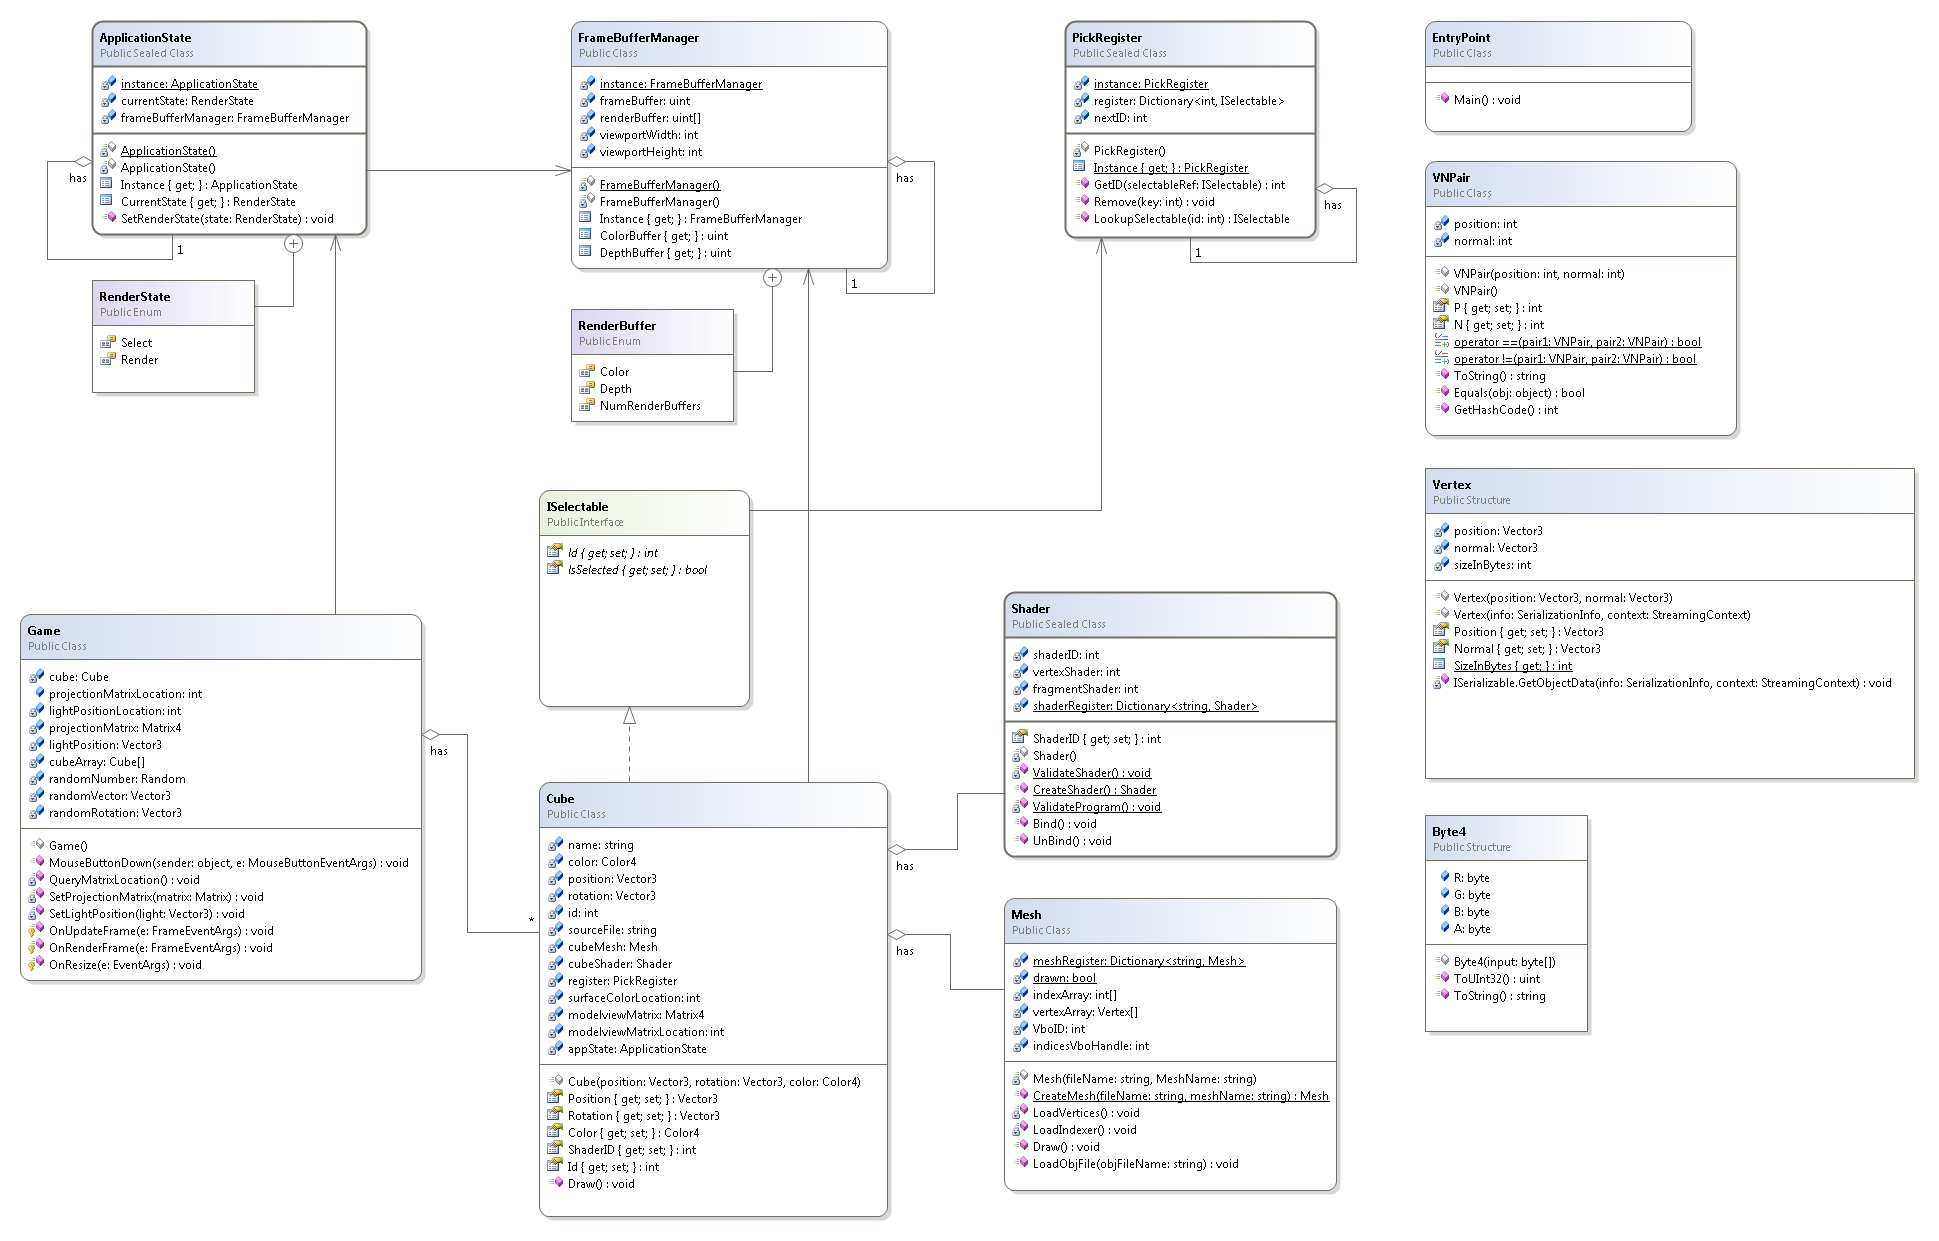
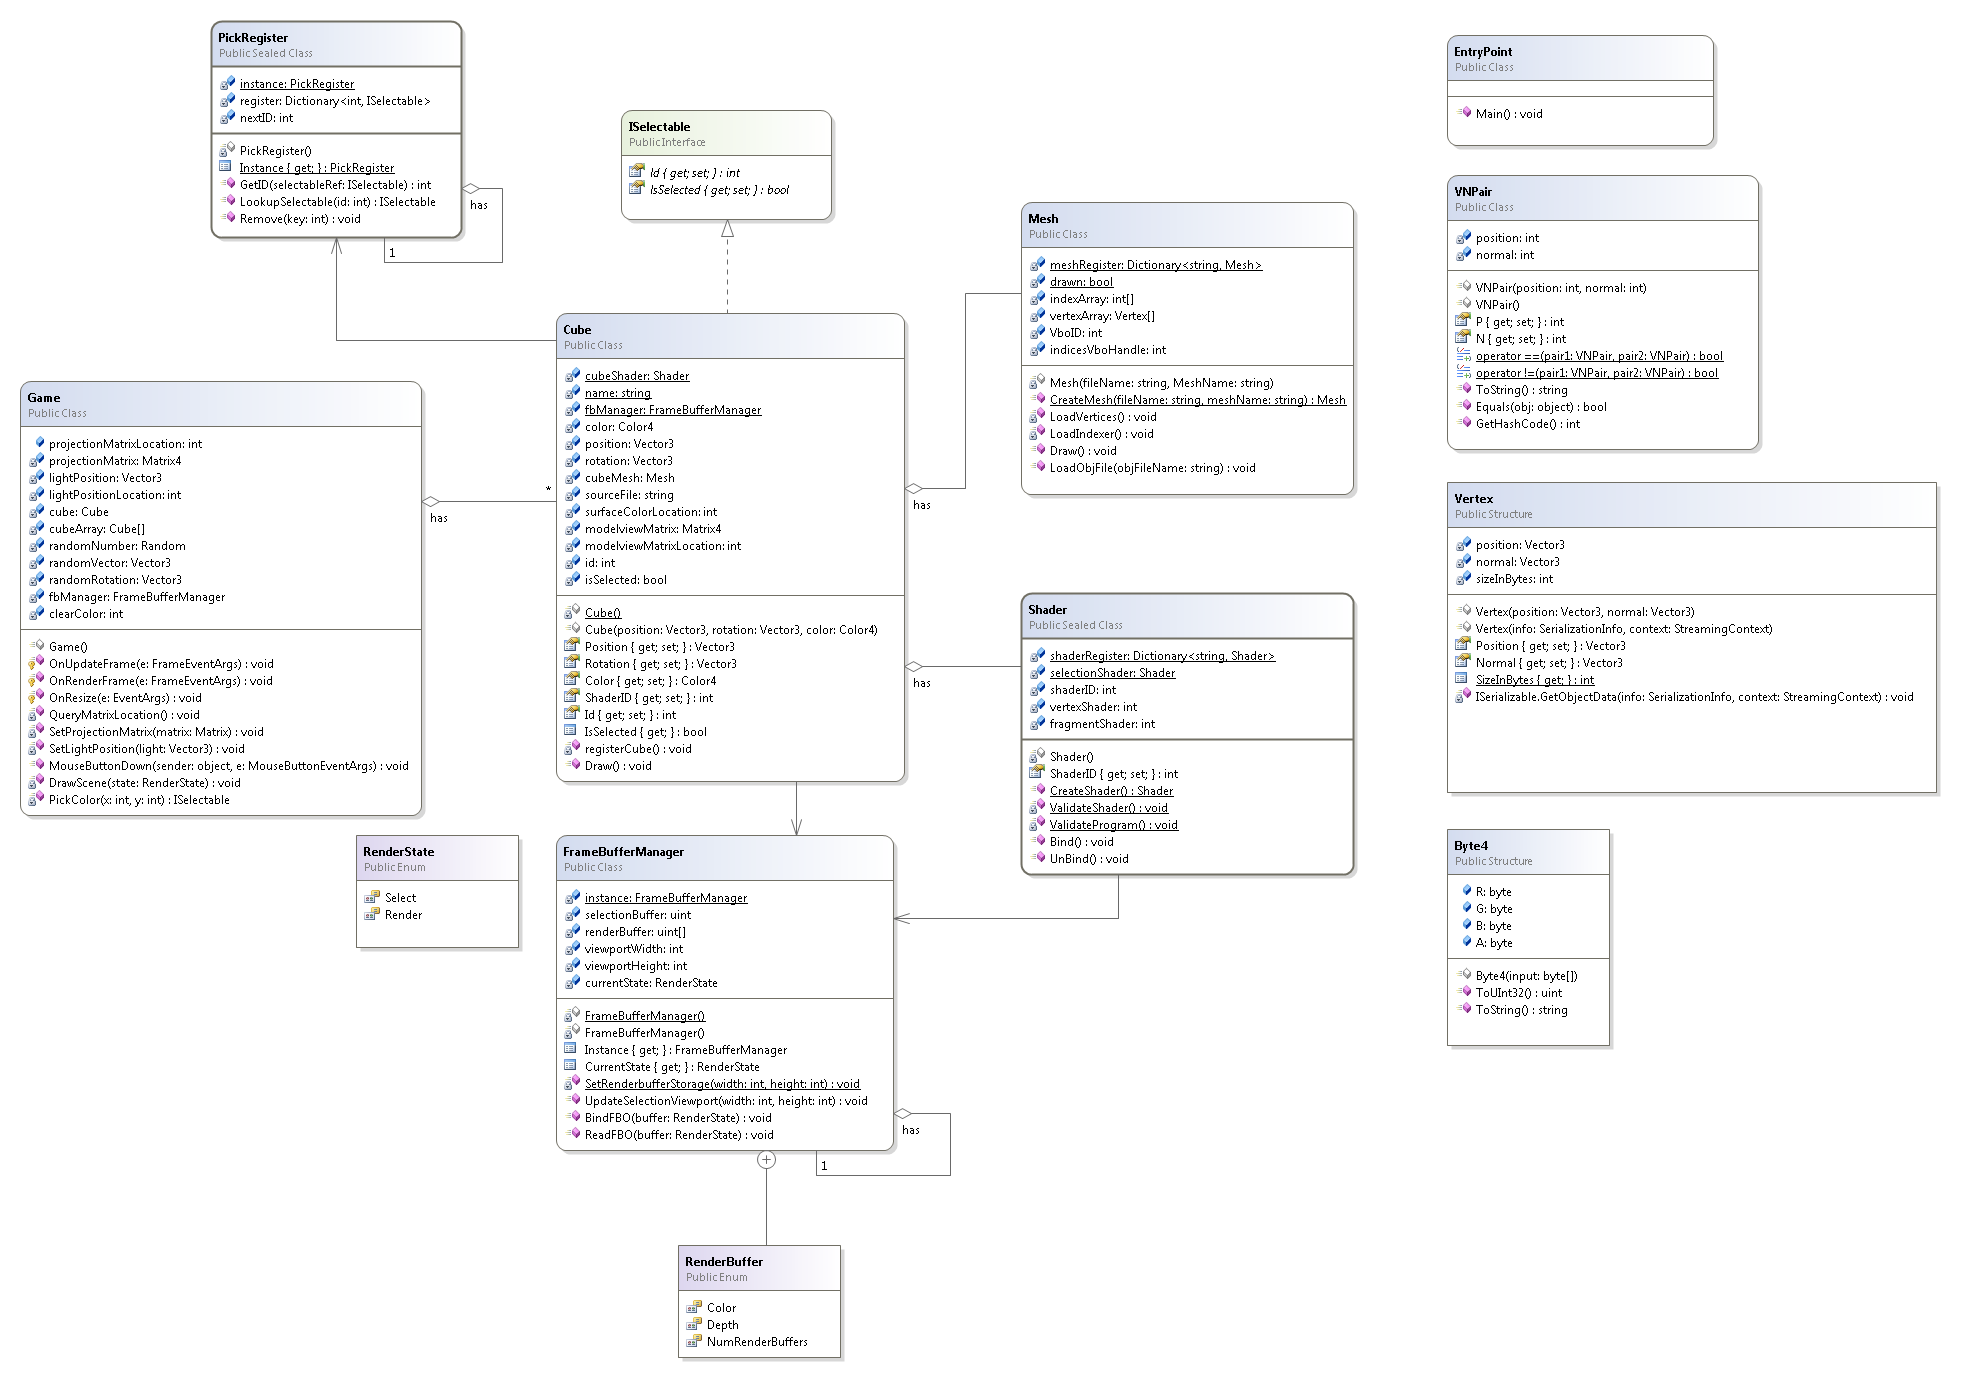
Updated UML from last commit. Starting to implement a separate 'select' Shader for drawing id colours to the selection buffer. Difficult to debug, perhaps write a toggle button to swap selection buffer and default buffer view.

diff --git a/Geometry.cs b/Geometry.cs
@@ -13,7 +13,6 @@ namespace LearnShader
     {
         int Id { get; }
         bool IsSelected { get; }
-        
     }
 
 
@@ -231,6 +230,10 @@ namespace LearnShader
         private bool isSelected;
 
         // Constructors
+        static Cube()
+        {
+            cubeShader = Shader.CreateShader("cube.vert", "cube.frag", name);
+        }        
         public Cube(Vector3 position, Vector3 rotation, Color4 color)
         {
             this.position = position;
@@ -255,11 +258,6 @@ namespace LearnShader
 
             surfaceColorLocation = GL.GetUniformLocation(cubeShader.ShaderID, "surfaceColor");
             modelviewMatrixLocation = GL.GetUniformLocation(cubeShader.ShaderID, "modelview_matrix");
-        }
-
-        static Cube()
-        {
-            cubeShader = Shader.CreateShader("cube.vert", "cube.frag", name);
         }
 
         // Properties
@@ -300,13 +298,12 @@ namespace LearnShader
         {
             if (fbManager.CurrentState == RenderState.Select)
             {
-                // Bind selectionShader
+                Shader.selectionShader.Bind();
             }
             if (fbManager.CurrentState == RenderState.Render)
             {
-                // Bind cubeShader
+                cubeShader.Bind();
             }
-
             modelviewMatrix = Matrix4.CreateRotationX(rotation.X) *
                               Matrix4.CreateRotationY(rotation.Y) *
                               Matrix4.CreateRotationZ(rotation.Z) *

diff --git a/ManagerClasses.cs b/ManagerClasses.cs
@@ -17,10 +17,6 @@ namespace LearnShader
         private RenderState currentState;
 
         // Constructors
-        private FrameBufferManager()
-        {
-            Console.WriteLine("FrameBufferManager() instance constructor executed");
-        }
         static FrameBufferManager()
         {
             // Initialise singleton instance
@@ -50,6 +46,10 @@ namespace LearnShader
 
             // Set back to default FrameBuffer
             GL.BindFramebuffer(FramebufferTarget.DrawFramebuffer, 0);
+        }        
+        private FrameBufferManager()
+        {
+            Console.WriteLine("FrameBufferManager() instance constructor executed");
         }
 
         // Properties
@@ -85,9 +85,15 @@ namespace LearnShader
         public void BindFBO(RenderState buffer)
         {
             if (buffer == RenderState.Select)
+            {
+                currentState = RenderState.Select;
                 GL.BindFramebuffer(FramebufferTarget.DrawFramebuffer, instance.selectionBuffer);
+            }
             if (buffer == RenderState.Render)
+            {
+                currentState = RenderState.Render;
                 GL.BindFramebuffer(FramebufferTarget.DrawFramebuffer, 0);
+            }
         }
         public void ReadFBO(RenderState buffer)
         {

diff --git a/ShaderExample.cs b/ShaderExample.cs
@@ -14,15 +14,15 @@ namespace LearnShader
     {
         // Fields
         public int projectionMatrixLocation;
-        int lightPositionLocation;
         Matrix4 projectionMatrix;
         Vector3 lightPosition;
+        int lightPositionLocation;
+        Cube cube;
         Cube[] cubeArray;
         Random randomNumber;
         Vector3 randomVector;
         Vector3 randomRotation;
         FrameBufferManager fbManager;
-        Cube cube;
         int clearColor;
 
         // Constructors
@@ -123,6 +123,7 @@ namespace LearnShader
             fbManager.ReadFBO(RenderState.Select);
             Byte4 pixel = new Byte4();
             GL.ReadPixels(x, this.Height - y, 1, 1, PixelFormat.Rgba, PixelType.UnsignedByte, ref pixel);
+            Console.WriteLine("{0}", pixel.ToString());
             Cube selected = (Cube)PickRegister.Instance.LookupSelectable((int)pixel.ToUInt32());
             if (selected != null)
             {

diff --git a/Shader.cs b/Shader.cs
@@ -10,7 +10,7 @@ namespace LearnShader
     {
         // Static Fields
         private static Dictionary<string, Shader> shaderRegister = new Dictionary<string, Shader>();
-        private static Shader selectionShader;
+        public static Shader selectionShader;
         
         // Instance Fields
         private int shaderID;
@@ -18,6 +18,14 @@ namespace LearnShader
         private int fragmentShader;
 
         // Constructors
+        static Shader()
+        {
+            selectionShader = new Shader("select.vert", "select.frag", "select");
+            selectionShader.Bind();
+
+            // TODO: Allocate the correct shader variables here
+
+        }
         private Shader(string vsFileName, string fsFileName, string shaderName)
         {
             shaderRegister.Add(shaderName, this);
